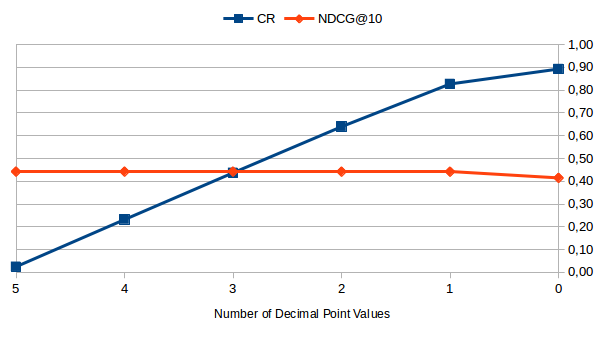
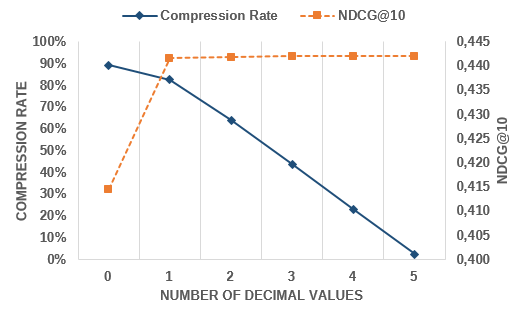
Updates from ShareLaTeX

diff --git a/ipl_article.tex b/ipl_article.tex
@@ -94,14 +94,13 @@
 % first the title is needed
 \title{Gradient Boosting to Precompute Multiple Signals in Search Index Construction}
 
-\author[mymainaddress]{Sheila Silva}
+\author[mymainaddress]{Sheila N{\'obrega}}
 \author[mymainaddress]{Edleno Moura}
 \author[mysecondaryaddress]{P{\'a}vel Calado}
 \author[mymainaddress]{Altigran Silva}
 
 \address[mymainaddress]{Universidade Federal do Amazonas, Brasil}
 \address[mysecondaryaddress]{INESC-ID, Instituto Superior T{\'e}cnico, Universidade de Lisboa}
-
 
 \begin{abstract}
 
@@ -340,144 +339,320 @@ As L2R implementation,  we adopted the QuickRank \cite{capannini2016quality}, a 
 \section{Results}
 \label{results}
 
- Table~\ref{tab:baseline} shows the values of NDCG  achieved by L2R methods reported in LETOR (Rankboost, ListNet, AdaRank and RankSVM), by  LambdaMART,  by the  baseline UTI-GP~\cite{costa2012lepref} and our model UTI-LambdaMART. There is almost not difference in the mean NDCG achieved by the compared L2R methods. This result shows that, at least in the LETOR dataset, the the UTI methods achieve results comparable to other L2R methods, in spite of using only features available at indexing time. This result, combined with the advantage of simplified the ranking and avoiding the access to several features at query time, makes the UTI methods the best choice for processing queries in collections as LETOR.
+Table~\ref{tab:baseline} shows the values of NDCG achieved by L2R
+methods reported in LETOR (Rankboost, ListNet, AdaRank and RankSVM),
+by LambdaMART, by the baseline UTI-GP~\cite{costa2012lepref} and our
+model UTI-LambdaMART. The differences in the mean NDCG achieved by the
+compared L2R methods are quite small, being smaller than 0.015 from
+the best method to the worse. We applied t-test to check whether there
+is statistical significance between the results achieved by
+\lambdamart, UTI-LambdaMART and UTI-GP. In all cases there was no
+statistically significant difference. This result shows that, at least
+in the LETOR dataset, the UTI methods achieve results comparable
+to other L2R methods, in spite of using only features available at
+indexing time. This result, combined with the advantage of reducing
+the cost to compute the ranking and avoiding the access to several
+features at query time, makes the UTI methods a very competitive
+choice for processing queries in collections as LETOR.
+
 
 \begin{table}
-\caption{Mean NDCG  results obtained by UTI-LambdaMART compared to several L2R methods.}
+
+\caption{Mean NDCG results obtained by UTI-LambdaMART compared to
+several L2R methods.}
+
 \label{tab:baseline}
+
 \begin{center}
+
 \begin{tabular}{|c|l|}
- \hline
- \textbf{Method} & \textbf{MeanNDCG} \\ 
- \hline\hline
- AdaRank & 0.4914 \\
- \hline
- UTI-GP & 0.4959 \\ 
- \hline
- RankSVM & 0.4966  \\ 
- \hline
- UTI-LambdaMART & 0.4971 \\ 
- \hline
- ListNet & 0.4988 \\
- \hline
- RankBoost & 0.5003 \\
- \hline
- LambdaMART & 0.5048 \\ 
- \hline
+
+\hline
+
+\textbf{Method} & \textbf{MeanNDCG} \\
+
+\hline\hline
+
+AdaRank & 0.491 \\
+
+\hline
+
+UTI-GP & 0.496\\
+
+\hline
+
+RankSVM & 0.497 \\
+
+\hline
+
+UTI-LambdaMART & 0.497 \\
+
+\hline
+
+ListNet & 0.499 \\
+
+\hline
+
+RankBoost & 0.500 \\
+
+\hline
+
+LambdaMART & 0.505 \\
+
+\hline
+
 \end{tabular}
+
 \end{center}
+
 \end{table}
 
 
-From Table~\ref{tab:baseline}, we can conclude that the quality results produced by  UTI-LambdaMART and UTI-GP are similar. However,  the time required for training in UTI-LambdaMART is by fair smaller than the time required for training in UTI-GP. For instance, in our experiments UTI-GP model has taken about 3 hours to run the training phase following the approach described by the authors˜\cite{costa2012lepref}, while  UTI-LambdaMART has taken  only about 5 minutes. 
+
+From Table~\ref{tab:baseline}, we can see that the quality of results
+produced by UTI-LambdaMART and UTI-GP are almost similar. However, the
+time required for training in UTI-LambdaMART is by fair smaller than
+the time required for training in UTI-GP. For instance, in our
+experiments UTI-GP model has taken about 3 hours to run the training
+phase following the approach described by the
+authors˜\cite{costa2012lepref}, while UTI-LambdaMART has taken only
+about 5 minutes.
+
 
 
 \begin{figure}[h!]
+
 \begin{center}
+
 \includegraphics[width=10cm, height=5cm]{im_ndcg_baseline.png}
+
 \caption{Comparison Results with NDCG@1~10 on MQ2007}
+
 \label{fig:ncdg10}
+
 \end{center}
+
 \end{figure}
 
-{\bf
-ESSA FIGURA AGUARDANDO SHEILA TERMINAR O EXPERIMENTO. PARA COMENTAR
+We also compared the performance of UTI-LambdaMART and BM25 being used
+as base rankers combined with LambdaMART as the top ranker. While in
+LETOR there is almost no difference between UTI methods and other
+learning methods, in practice search engines may contain other
+important features available only at query processing times, such as
+clicks performed by the users in the top results or personalized
+information about each user. Figure~\ref{fig:bm25} compares the
+performance of the two alternative base rankers when varying the size
+of top results taken from each alternative. As smaller is the number
+of top results we need to look in order to achieve high quality
+results, as better is the top ranker. As it can be seen,
+UTI-LambdaMART outperforms BM25 as a base ranker. For instance, taking
+2 results we achieve value of NDCG close to 0.56 when using
+UTI-LambdaMART, while to achieve the same quality with BM25 we need to
+take 9 top results. With 3 results the UTI base rankers outperform the
+results of BM25 as top ranker.
 
+This results is interesting to show how we can employ UTI-LambdaMART
+in practical web search scenarios as a base ranker. It reduces the
+amount of features to be fetched and computed at query processing
+times and reduces the number of top results that should be inspected
+by the top ranker when compared to a traditional approach that uses a
+simpler base ranker, as BM25. This combination means practical gains
+in performance that depend on the architecture and feature sets
+adopted by each system.
 
-We also compared the performance of  UTI-LambdaMART and BM25  being used as base rankers combined with LambdaMART as the top ranker. While in LETOR the is almost no difference between UTI methods and other learning methods, in practice search engines may contain other important features available only at query processing times, such as clicks performed by the users in links or personalized information about each user.  Figure~\ref{fig:bm25} compares the performance of the two alternative base rankers when varying the size of top results taken from each alternative. As smaller is the number of top results we need to take to achieve high quality results, as better is the top ranker. As it can be seen, UTI-LambdaMART outperforms  BM25 as a base ranker. For instance, taking XX results we achieve YY value of NDCG when using UTI-LambdaMART, while to achieve the same quality with BM25 we need to take ZZ top results.
-
-
-This results is interesting to show how we can employ  UTI-LambdaMART in practical web search and the potential benefit that can be achieved by UTI-LambdaMART. It results the amount of features to be fetched and computed at query  processing times and reduces the number of top results that should be inspected by the top ranker when compared to a traditional approach that uses a simpler base ranker, as BM25.
 
 %\begin{figure}[h!]
+
 %\begin{center}
+
 %\includegraphics[width=10cm, height=5cm]{im_ndcg10leprefbm25.png}
+
 %\caption{LambdaMART: Comparison results with BM25 base ranker and LePrEF base ranker}
+
 %\label{fig:bm25}
+
 %\end{center}
+
 %\end{figure}
 
-}
+
+%}
+
 
 \begin{figure*}[h!]
 \centering
-	\subfigure[LambdaMART: Comparison results with BM25 base ranker and LePrEF base ranker]{
-	\includegraphics[width=0.46\textwidth]{im_ndcg10leprefbm25.png}
-	\label{fig:bm25}}
-	\subfigure[Compression rate achieved by applying Elias-$\delta$ to the UTI values produced by UTI-LambdaMART in the  index when (CR) x NDCG@10;]{
-	\includegraphics[width=0.46\textwidth]{im_cr_ndcg_lambda.png}
-	\label{fig:crq}}
+
+\subfigure[LambdaMART: Comparison results with BM25 base ranker and LePrEF base ranker]{
+\includegraphics[width=0.5\textwidth]{im_ndcg10leprefbm25.png}
+\label{fig:bm25}}
+
+\subfigure[Compression rate achieved by applying Elias-$\delta$ to the UTI values produced by UTI-LambdaMART in the index compared with the NDCG@10;]{
+\includegraphics[width=0.5\textwidth]{im_cr_ndcg_lambda.png}
+\label{fig:crq}}
+
 \end{figure*}
 
 
 \subsection{Compressing the UTIs}
-\label{sec:compression} 
 
-A common approach for improving search engine time and space efficiency is to compress the inverted index~\cite{baezaribeiro2011modinforet}. To this effect, we experimented with truncating the UTI values generated to an integer value. We performed UTI-LambdaMART with real values and then process the discretization in final results when storing  the inverted list. This simple strategy achieved satisfactory results with practically no variation in quality. Without loss of generality, for the experiments to compress the UTI values, we adopted the \textit{Elias Delta codes}~\cite{elias1975universal}, a technique that has been adopted not only in LePrEF, but also in other past research articles that addressed the topic of compressing inverted indexes.
+\label{sec:compression}
 
- Figure~\ref{fig:crq} shows the compression rates achieved when varying the number of digits truncated in the UTI number. As a reference to compute the compression rate, we adopted that each UTI number would be represented as a 32 bits floating point number without compression. As can be seen,  there is indeed a trade-off between quality and compression rate as we vary the number of decimal point values truncated when transforming real values of UTI into integer values. Results truncating the number with only $1$ digit presents a small reduction in NDCG quality while achieve a high compression rate. When using zero digits, we see a negative impact in the NDCG values, indicating that the best alternative in the experiments with LETOR would be to truncate UTI values in 1 digit.
+
+A common approach for improving search engine time and space
+efficiency is to compress the inverted
+index~\cite{baezaribeiro2011modinforet}. To this effect, we
+experimented with truncating the UTI values generated to an integer
+value. We performed UTI-LambdaMART with real values and then process
+the discretization in final results when storing the inverted list.
+This simple strategy achieved satisfactory results with practically no
+variation in quality. Without loss of generality, for the experiments
+to compress the UTI values, we adopted the \textit{Elias Delta
+codes}~\cite{elias1975universal}, a technique that has been adopted
+not only in LePrEF, but also in other past research articles that
+addressed the topic of compressing inverted indexes.
+
+
+Figure~\ref{fig:crq} shows the compression rates achieved when varying
+the number of digits truncated in the UTI number. As a reference to
+compute the compression rate, we adopted that each UTI number would be
+represented as a 32 bits floating point number without compression. As
+can be seen, there is indeed a trade-off between quality and
+compression rate as we vary the number of decimal point values
+truncated when transforming real values of UTI into integer values.
+Results truncating the number with only $1$ digit presents a small
+reduction in NDCG quality while achieves a high compression rate. When
+using zero digits, we see a clear negative impact in the NDCG values,
+indicating that the best alternative in the experiments with LETOR
+would be to truncate UTI values to 1 decimal digit.
+
 
 %\begin{figure}[h!]
+
 %\begin{center}
+
 %\includegraphics[width=10cm, height=5cm]{im_cr_ndcg_lambda.png}
-%\caption{Compression rate achieved by applying Elias-$\delta$ to the UTI values produced by UTI-LambdaMART in the  index when (CR) x NDCG@10}
+
+%\caption{Compression rate achieved by applying Elias-$\delta$ to the UTI values produced by UTI-LambdaMART in the index when (CR) x NDCG@10}
+
 %\label{fig:crq}
+
 %\end{center}
+
 %\end{figure}
 
+
 %\begin{figure*}[h!]
+
 %\centering
-%	\subfigure[UTI without compression. 235.234 distinct values. 213.140 unique %values]{%
-%	\includegraphics[width=0.4\textwidth]{im_distribuicao_uti_lambda_normal.png}
-%	\label{fig:dln}}%
-%	\subfigure[UTI with compression. 47 distinct values; 2 unique values;]{%
-%	\includegraphics[width=0.4\textwidth]{im_distribuicao_uti_lambda_1casa.png}
-%	\label{fig:dlc}}
-	% 
-%	\caption{Distribution of 272.140 UTI values for 5 folds without compression (a) and with compression (b).}
-%	\label{fig:compareData}
+
+% \subfigure[UTI without compression. 235.234 distinct values. 213.140 unique %values]{%
+
+% \includegraphics[width=0.4\textwidth]{im_distribuicao_uti_lambda_normal.png}
+
+% \label{fig:dln}}%
+
+% \subfigure[UTI with compression. 47 distinct values; 2 unique values;]{%
+
+% \includegraphics[width=0.4\textwidth]{im_distribuicao_uti_lambda_1casa.png}
+
+% \label{fig:dlc}}
+
+%
+
+% \caption{Distribution of 272.140 UTI values for 5 folds without compression (a) and with compression (b).}
+
+% \label{fig:compareData}
+
 %\end{figure*}
 
 
+
 %\begin{figure}
+
 %\begin{center}
+
 %\includegraphics[width=7cm, height=7cm]{im_baselineLePrEF.png}
+
 %\caption{NDCG@10 result obtained by LambdaMART and CA when performed using BM25 and LePrEF as %first ranking.}
+
 %\label{fig:lfr}
+
 %\end{center}
+
 %\end{figure}
 
+
 %% References
+
 %%
+
 %% Following citation commands can be used in the body text:
+
 %% Usage of \cite is as follows:
-%%   \cite{key}         ==>>  [#]
-%%   \cite[chap. 2]{key} ==>> [#, chap. 2]
+
+%% \cite{key} ==>> [#]
+
+%% \cite[chap. 2]{key} ==>> [#, chap. 2]
+
 %%
+
 
 %% References with bibTeX database:
 
-\section{Conclusion}
-The experimental results presented in this work indicate that UTI-LambdaMART achieves better quality results when compared with UTI-GP. We achieved higher compression results than those achieved by \cite{costa2012lepref} with a significant reduction training time and achieving comparable quality of results. 
 
-We also investigated two scenarios where UTI values  can be used in a practical web search, considering both, the use of UTI-LambdaMART as the base  ranker and using UTI-LambdaMART as top ranker. In the first, UTI values are able to produce high quality first cut rankings that are closer to the final document order, which  reduces the amount of documents necessary to be inspected in the top ranker, resulting in gains of performance. In second scenario, UTI-LambdaMART is directly applied as the top ranker, and we show that, even taking only features available at indexing times, it produces rankings with quality closer  to learn to rank  methods adopted at query processing times, but with the advantage of reducing the time to process queries.
+\section{Conclusion}
+
+The experimental results presented in this work indicate that
+UTI-LambdaMART produces quality results closer to the ones produced by
+UTI-GP, while significantly reduces the time required for learning the
+model. Further, in the experiments with LETOR, we achieved higher
+compression results than those achieved by \cite{costa2012lepref}.
+
+
+We also investigated two scenarios where UTI values can be used in a
+practical web search, considering both, the use of UTI-LambdaMART as
+the base ranker and using UTI-LambdaMART as top ranker. In the first,
+UTI values are able to produce high quality first cut rankings that
+are closer to the final document order, reducing the amount of
+documents necessary to be inspected in the top ranker, and resulting
+in gains of performance. In the second scenario, UTI-LambdaMART is
+directly applied as the top ranker, and we show that, even taking only
+features available at indexing times, it produces rankings with
+quality closer to learn to rank methods adopted at query processing
+times, but with the advantage of adopting a very simple ranking
+strategy at query processing times.
+
 
 \label{conclusion}
 
 
+
 \bibliographystyle{elsarticle-num}
+
 % \bibliographystyle{elsarticle-harv}
+
 % \bibliographystyle{elsarticle-num-names}
+
 % \bibliographystyle{model1a-num-names}
+
 % \bibliographystyle{model1b-num-names}
+
 % \bibliographystyle{model1c-num-names}
+
 % \bibliographystyle{model1-num-names}
+
 % \bibliographystyle{model2-names}
+
 % \bibliographystyle{model3a-num-names}
+
 % \bibliographystyle{model3-num-names}
+
 % \bibliographystyle{model4-names}
+
 % \bibliographystyle{model5-names}
+
 % \bibliographystyle{model6-num-names}
+
 
 \bibliography{sample}
 
